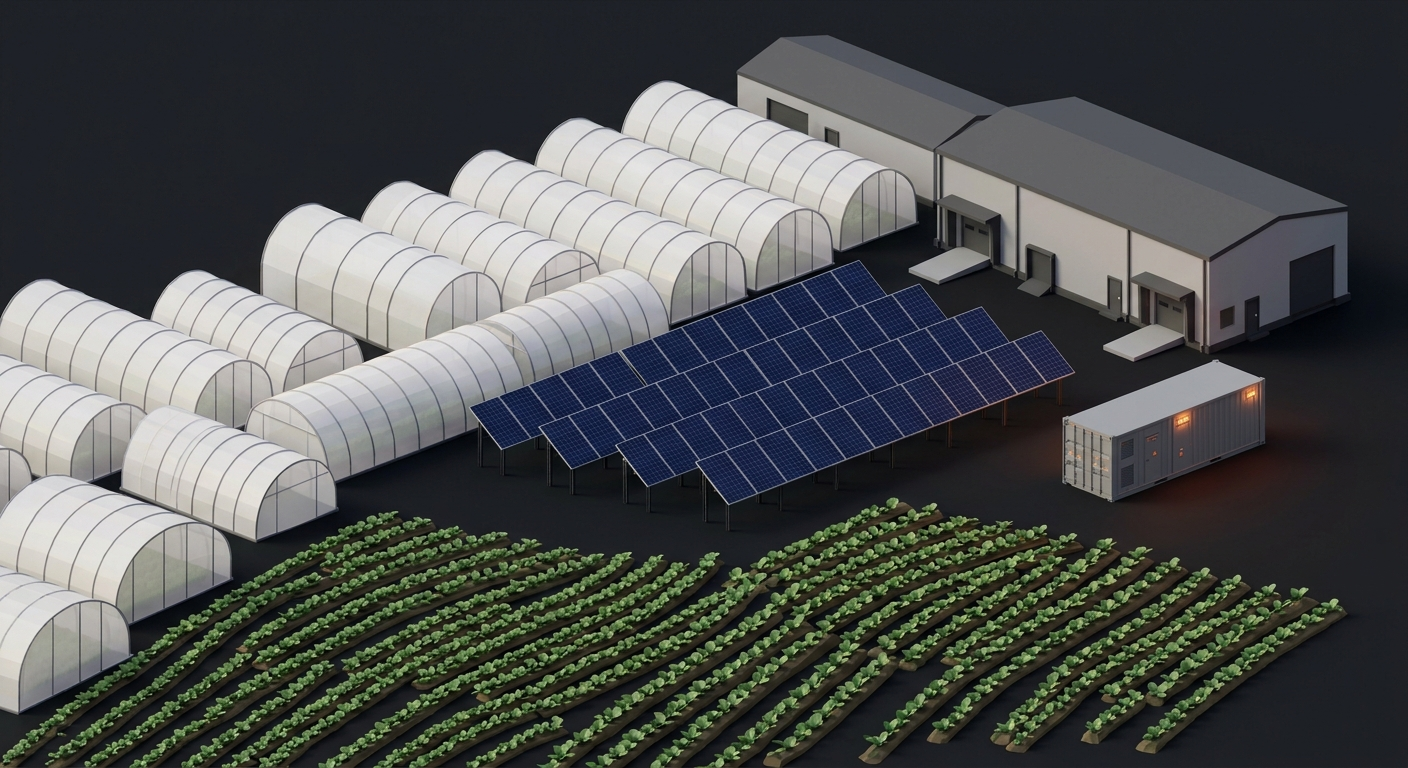
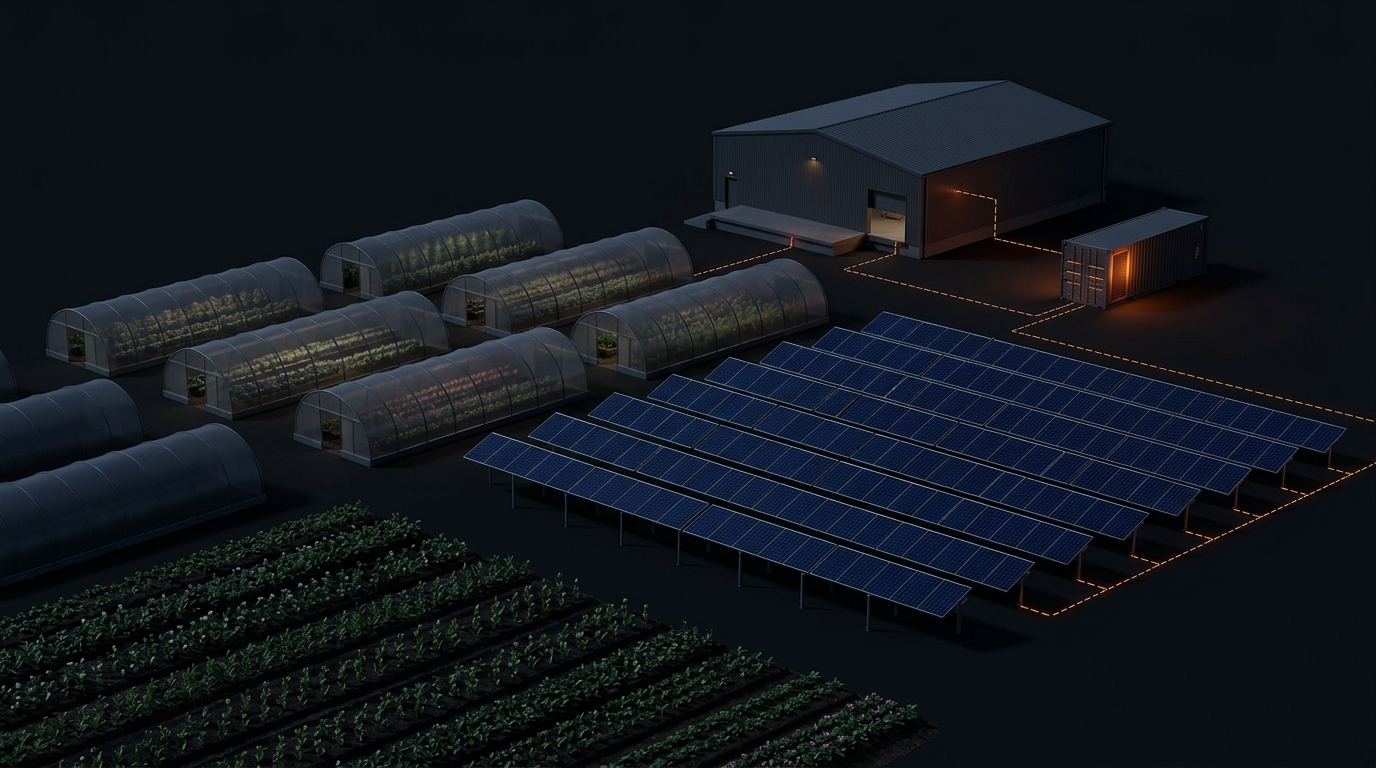
**Case Studies Note Enlarged & Trimmed — complete** - The partnership statement on the Case Studies page is now noticeably larger with more breathing room, and "Project photography follows shortly." is removed — it now reads simply: "Projects developed, constructed and designed in partnership with r

diff --git a/frontend/src/components/SectorsBand.jsx b/frontend/src/components/SectorsBand.jsx
@@ -1,8 +1,8 @@
-import { useState } from "react";
-import { AnimatePresence, motion } from "framer-motion";
+import { useEffect, useLayoutEffect, useRef, useState } from "react";
+import { motion } from "framer-motion";
 import { Factory, Hotel, ShoppingBag, HeartPulse, Flower2 } from "lucide-react";
 import { Reveal } from "@/components/Reveal";
-import { SectorInfographic } from "@/components/SectorInfographic";
+import { SectorInfographic, IMAGES as INFOGRAPHIC_IMAGES } from "@/components/SectorInfographic";
 
 const SECTORS = [
   { n: "01", name: "Manufacturing", icon: Factory, scene: "manufacturing", driver: "Solar and storage sized to process loads — cutting diesel and tariff exposure on the production line." },
@@ -14,6 +14,50 @@ const SECTORS = [
 
 export const SectorsBand = () => {
   const [active, setActive] = useState(0);
+  const openTimer = useRef(null);
+  const rowRefs = useRef([]);
+  const anchorRef = useRef(null);
+
+  useEffect(() => {
+    Object.values(INFOGRAPHIC_IMAGES).forEach((src) => {
+      const img = new Image();
+      img.src = src;
+    });
+    return () => clearTimeout(openTimer.current);
+  }, []);
+
+  const openRow = (i) => {
+    const row = rowRefs.current[i];
+    anchorRef.current = row ? { i, y: row.getBoundingClientRect().top } : null;
+    setActive(i);
+  };
+
+  const scheduleOpen = (i) => {
+    clearTimeout(openTimer.current);
+    openTimer.current = setTimeout(() => openRow(i), 400);
+  };
+
+  const openNow = (i) => {
+    clearTimeout(openTimer.current);
+    openRow(i);
+  };
+
+  useLayoutEffect(() => {
+    const a = anchorRef.current;
+    if (!a) return;
+    anchorRef.current = null;
+    const row = rowRefs.current[a.i];
+    if (!row) return;
+    const delta = row.getBoundingClientRect().top - a.y;
+    if (Math.abs(delta) > 1) {
+      const y = window.scrollY + delta;
+      if (window.__lenis) {
+        window.__lenis.scrollTo(y, { immediate: true });
+      } else {
+        window.scrollTo(0, y);
+      }
+    }
+  }, [active]);
 
   return (
     <section className="bg-white py-24 lg:py-32" data-testid="sectors-band">
@@ -33,64 +77,64 @@ export const SectorsBand = () => {
 
         <div className="mt-16 border-t border-black/10">
           {SECTORS.map((s, i) => (
-            <Reveal key={s.n} delay={i * 0.04}>
-              <div
-                className={`group grid cursor-pointer grid-cols-1 gap-3 border-b border-black/10 px-4 py-8 transition-colors duration-300 md:grid-cols-12 md:items-center md:px-6 md:py-10 ${
-                  active === i ? "bg-obsidian" : "hover:bg-obsidian"
-                }`}
-                data-testid={`sector-row-${s.n}`}
-                onMouseOver={() => setActive(i)}
-                onClick={() => setActive(i)}
-                onFocus={() => setActive(i)}
-              >
-                <p className="font-mono text-xs tracking-[0.3em] text-ochre md:col-span-2">{s.n}</p>
-                <div className="flex items-center gap-4 md:col-span-5">
-                  <span
-                    className={`flex h-11 w-11 shrink-0 items-center justify-center border transition-all duration-300 group-hover:rotate-6 group-hover:border-ochre group-hover:bg-ochre group-hover:text-obsidian ${
-                      active === i ? "rotate-6 border-ochre bg-ochre text-obsidian" : "border-black/15 text-black/55"
-                    }`}
-                  >
-                    <s.icon className="h-5 w-5" />
-                  </span>
-                  <h3
-                    className={`font-display text-2xl font-extrabold uppercase tracking-tighter transition-colors duration-300 group-hover:text-white sm:text-3xl ${
-                      active === i ? "text-white" : ""
-                    }`}
-                  >
-                    {s.name}
-                  </h3>
-                </div>
-                <p
-                  className={`text-sm leading-relaxed transition-colors duration-300 group-hover:text-white/60 md:col-span-5 ${
-                    active === i ? "text-white/60" : "text-black/55"
+            <div key={s.n}>
+              <Reveal delay={i * 0.04}>
+                <div
+                  ref={(el) => (rowRefs.current[i] = el)}
+                  className={`group grid cursor-pointer grid-cols-1 gap-3 border-b border-black/10 px-4 py-8 transition-colors duration-300 md:grid-cols-12 md:items-center md:px-6 md:py-10 ${
+                    active === i ? "bg-obsidian" : "hover:bg-obsidian"
                   }`}
+                  data-testid={`sector-row-${s.n}`}
+                  onMouseOver={() => scheduleOpen(i)}
+                  onClick={() => openNow(i)}
+                  onFocus={() => openNow(i)}
                 >
-                  {s.driver}
-                </p>
-              </div>
-            </Reveal>
+                  <p className="font-mono text-xs tracking-[0.3em] text-ochre md:col-span-2">{s.n}</p>
+                  <div className="flex items-center gap-4 md:col-span-5">
+                    <span
+                      className={`flex h-11 w-11 shrink-0 items-center justify-center border transition-all duration-300 group-hover:rotate-6 group-hover:border-ochre group-hover:bg-ochre group-hover:text-obsidian ${
+                        active === i ? "rotate-6 border-ochre bg-ochre text-obsidian" : "border-black/15 text-black/55"
+                      }`}
+                    >
+                      <s.icon className="h-5 w-5" />
+                    </span>
+                    <h3
+                      className={`font-display text-2xl font-extrabold uppercase tracking-tighter transition-colors duration-300 group-hover:text-white sm:text-3xl ${
+                        active === i ? "text-white" : ""
+                      }`}
+                    >
+                      {s.name}
+                    </h3>
+                  </div>
+                  <p
+                    className={`text-sm leading-relaxed transition-colors duration-300 group-hover:text-white/60 md:col-span-5 ${
+                      active === i ? "text-white/60" : "text-black/55"
+                    }`}
+                  >
+                    {s.driver}
+                  </p>
+                </div>
+              </Reveal>
+              {active === i && (
+                <motion.div
+                  initial={{ opacity: 0 }}
+                  animate={{ opacity: 1 }}
+                  transition={{ duration: 0.35 }}
+                  className="border-b border-black/10 bg-obsidian px-4 py-8 md:px-8 md:py-12"
+                  data-testid={`sector-panel-${s.n}`}
+                >
+                  <SectorInfographic key={s.scene} scene={s.scene} />
+                </motion.div>
+              )}
+            </div>
           ))}
         </div>
 
         <Reveal delay={0.1}>
           <p className="mt-8 font-mono text-[11px] uppercase tracking-[0.25em] text-black/40">
-            Hover a sector to see how solar PV + battery integrate for the application
+            Hover a sector — its system integration renders directly below it
           </p>
         </Reveal>
-
-        <div className="mt-6 bg-obsidian px-4 py-8 md:px-8 md:py-12" data-testid={`sector-panel-${SECTORS[active].n}`}>
-          <AnimatePresence mode="wait" initial={false}>
-            <motion.div
-              key={active}
-              initial={{ opacity: 0, y: 24 }}
-              animate={{ opacity: 1, y: 0 }}
-              exit={{ opacity: 0, y: -16 }}
-              transition={{ duration: 0.35, ease: [0.22, 1, 0.36, 1] }}
-            >
-              <SectorInfographic scene={SECTORS[active].scene} />
-            </motion.div>
-          </AnimatePresence>
-        </div>
       </div>
     </section>
   );

diff --git a/frontend/src/pages/CaseStudies.jsx b/frontend/src/pages/CaseStudies.jsx
@@ -99,11 +99,11 @@ export default function CaseStudies() {
         image="https://images.unsplash.com/photo-1508514177221-188b1cf16e9d"
       />
 
-      <section className="border-b border-black/10 bg-white py-8" data-testid="case-studies-note">
+      <section className="border-b border-black/10 bg-white py-12 lg:py-16" data-testid="case-studies-note">
         <div className="mx-auto max-w-7xl px-6 lg:px-10">
-          <p className="max-w-3xl font-mono text-[11px] uppercase leading-relaxed tracking-[0.15em] text-black/45">
+          <p className="max-w-4xl font-mono text-sm uppercase leading-relaxed tracking-[0.2em] text-black/60 md:text-base">
             Projects developed, constructed and designed in partnership with regional solar
-            developers, IPPs, EPCs and consultants. Project photography follows shortly.
+            developers, IPPs, EPCs and consultants.
           </p>
         </div>
       </section>

diff --git a/frontend/src/components/SectorInfographic.jsx b/frontend/src/components/SectorInfographic.jsx
@@ -1,7 +1,7 @@
 import { useRef } from "react";
 import { motion, useMotionValue, useSpring, useTransform } from "framer-motion";
 
-const IMAGES = {
+export const IMAGES = {
   manufacturing: "/images/infographics/manufacturing.png",
   hospitality: "/images/infographics/hospitality.png",
   retail: "/images/infographics/retail.png",

diff --git a/scripts/gen_infographics2.py b/scripts/gen_infographics2.py
@@ -1,0 +1,80 @@
+import asyncio
+import base64
+import os
+from dotenv import load_dotenv
+from emergentintegrations.llm.chat import LlmChat, UserMessage
+
+load_dotenv("/app/backend/.env")
+
+OUT = "/app/frontend/public/images/infographics"
+os.makedirs(OUT, exist_ok=True)
+
+STYLE = (
+    "Dark moody night-time isometric 3D architectural render, very dark charcoal scene on a near-black background (#0A0A0C), "
+    "dim ambient light, matte dark grey and graphite buildings, deep navy-blue solar panels with a subtle sheen, "
+    "warm orange (#D97725) accent glow and rim lighting, thin glowing orange dashed energy-flow lines running from the "
+    "solar panels and the battery container into the building they power, soft shadows, cinematic, high detail, "
+    "wide landscape composition, no text, no labels, no watermark."
+)
+
+SCENES = {
+    "manufacturing": (
+        "A modern industrial factory warehouse with a large flat roof covered in neat rows of dark navy solar panels, "
+        "maintenance walkways between the panel rows, thin guardrails along the roof edges, a roof access ladder on the "
+        "side wall, a loading dock with white box trucks and orange ground safety markings, two battery energy storage "
+        "containers beside the building with an orange status glow, and two factory chimney stacks emitting soft "
+        "light-grey smoke plumes. " + STYLE
+    ),
+    "retail": (
+        "A contemporary shopping mall building with a flat roof covered in dark navy solar panel rows, a front parking "
+        "lot with elegant solar panel carport canopies shading rows of parked cars, small EV charging posts beside some "
+        "cars, and a battery energy storage container near the building with an orange status glow. " + STYLE
+    ),
+    "healthcare": (
+        "A modern hospital building at night with a rooftop helipad marked with a circle and H and a small helicopter, "
+        "rows of dark navy solar panels on the remaining flat roof, thin guardrails along the roof edge, a roof access "
+        "ladder, a battery energy storage annex beside the building with an orange status glow, a subtle orange medical "
+        "cross on the facade, and warm light in a few windows. " + STYLE
+    ),
+    "hospitality": (
+        "A luxury eco safari lodge at night with several villas with pitched roofs and warm glowing windows, palm trees "
+        "and natural landscaping, a ground-mount dark navy solar panel array on a clearing behind the lodge, two battery "
+        "energy storage containers, and a compact enclosed silent-type diesel generator unit with a dark canopy standing "
+        "beside the battery containers, switched off and quiet. " + STYLE
+    ),
+    "agri": (
+        "A flower farm at night with long curved greenhouse tunnels dimly lit in rows, a large ground-mount dark navy "
+        "solar panel array mounted on slim metal rammed pole foundations, a packhouse cold-store building, a battery "
+        "energy storage container with an orange status glow, and dark green crop rows in the foreground, overall a "
+        "darker dusk tone. " + STYLE
+    ),
+}
+
+
+async def gen(name, prompt):
+    chat = LlmChat(
+        api_key=os.getenv("EMERGENT_LLM_KEY"),
+        session_id=f"gjw-infographic-v2-{name}",
+        system_message="You are a helpful AI assistant",
+    )
+    chat.with_model("gemini", "gemini-3.1-flash-image-preview").with_params(modalities=["image", "text"])
+    text, images = await chat.send_message_multimodal_response(UserMessage(text=prompt))
+    if images:
+        path = os.path.join(OUT, f"{name}.png")
+        with open(path, "wb") as f:
+            f.write(base64.b64decode(images[0]["data"]))
+        print(f"OK {name}: {os.path.getsize(path)} bytes", flush=True)
+    else:
+        print(f"NO IMAGE for {name}: {text[:120]}", flush=True)
+
+
+async def main():
+    for name, prompt in SCENES.items():
+        try:
+            await gen(name, prompt)
+        except Exception as e:
+            print(f"ERROR {name}: {e}", flush=True)
+
+
+asyncio.run(main())
+print("ALL DONE", flush=True)

diff --git a/memory/PRD.md b/memory/PRD.md
@@ -100,6 +100,14 @@ Build a sleek, professional, elite-EPC website for GJW Energy — a newly incorp
 - Verified: retail/agri/healthcare hover switches all swap scenes correctly; manufacturing default renders
 - Generation script kept at /app/scripts/gen_infographics.py (uses EMERGENT_LLM_KEY from backend/.env)
 
+## Iteration 14 (2026-09-04)
+- Infographic panel now renders in-flow directly below the selected sector row (user request), with 400ms hover-intent delay (glide-past doesn't trigger) and scroll anchoring (useLayoutEffect + lenis immediate scrollTo) so the hovered row stays glued under the cursor when panels open/close — no cascade, no flicker
+- Regenerated all 5 infographics darker (night-time theme matching Healthcare): manufacturing now has chimney smoke plumes; hospitality now includes the silent generator unit beside the BESS; agri darkened; all scenes have orange dashed power-flow lines from PV/BESS to loads. Script: /app/scripts/gen_infographics2.py
+- Verified via automated browser tests: hover rows 01/02/04/05 each open the correct panel directly below (gap 0), gliding past rows opens nothing; all five v2 renders reviewed visually. Note: the testing_agent subagent referenced in the workflow is not available in this environment — verification was done with scripted browser tests instead
+
+## Iteration 15 (2026-09-04)
+- Case Studies note strip enlarged (11px → 16px mono, more padding) and "Project photography follows shortly." removed
+
 ## Backlog
 - P0: Replace placeholder contact details with real email/phone; real headshot for Project Lead panel; real per-case-study photos (user sending)
 - P1: Email notification on enquiry (Resend); simple admin view/password for enquiries; SEO meta/OG images per page
